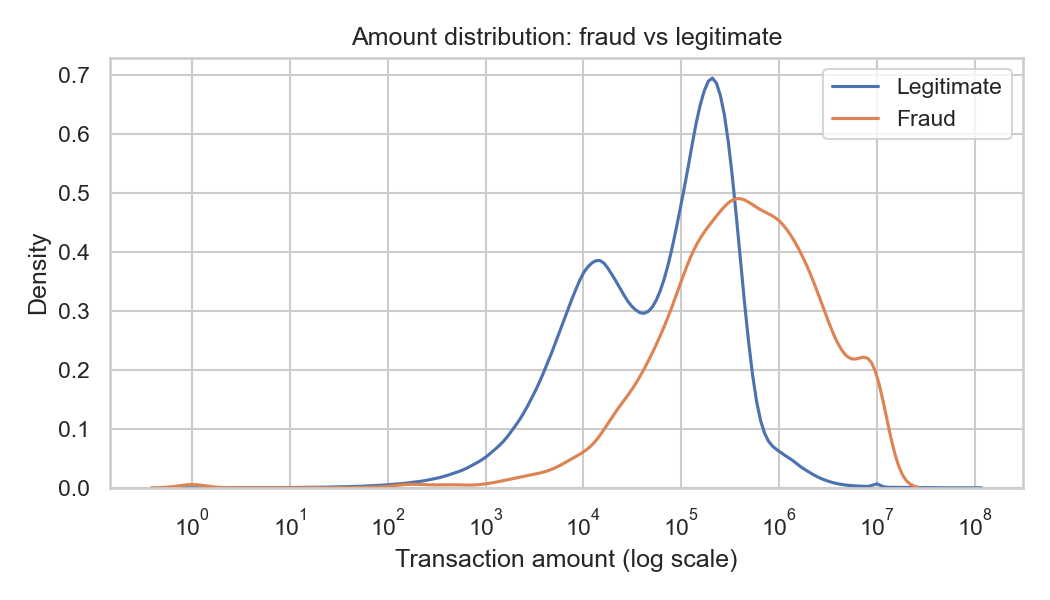
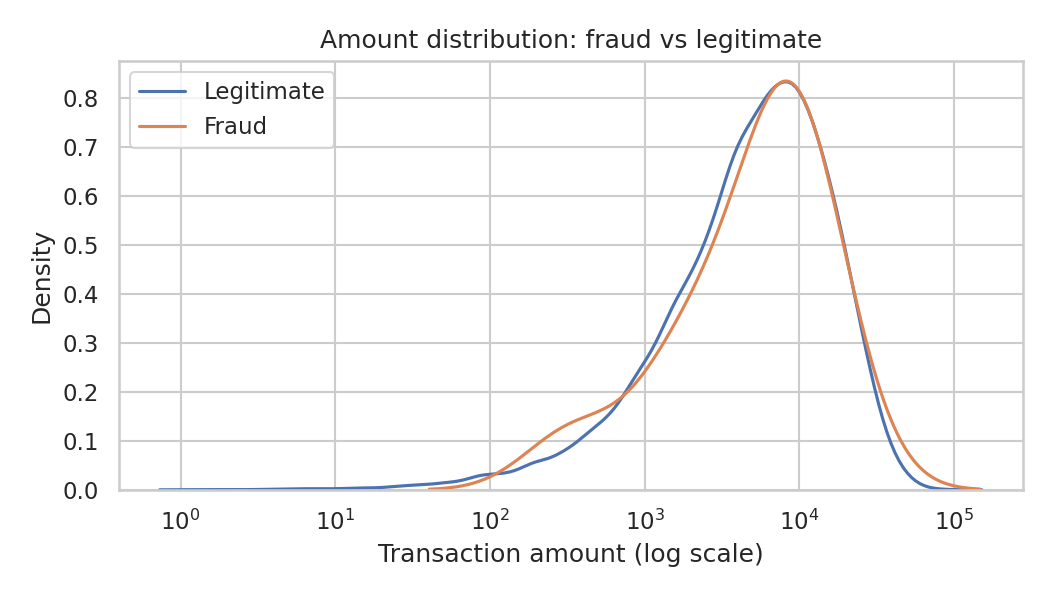
build preprocessing and feature engineering pipeline

Changed region(s): [[0.0305, 0.03, 0.9752, 0.96]]

diff --git a/src/data/preprocessing.py b/src/data/preprocessing.py
@@ -1,0 +1,138 @@
+"""
+Preprocessing and feature engineering for the PaySim dataset.
+
+Turns raw PaySim transactions into a modeling-ready feature matrix:
+  - encodes the categorical `type` column
+  - engineers balance-discrepancy features (the strongest fraud signal
+    identified during EDA — see notebooks/01_eda.ipynb)
+  - produces a stratified train/test split that preserves the (very rare)
+    fraud rate in both partitions
+"""
+
+import pathlib
+
+import numpy as np
+import pandas as pd
+from sklearn.model_selection import train_test_split
+
+TRANSACTION_TYPES = ["CASH-IN", "CASH-OUT", "DEBIT", "PAYMENT", "TRANSFER"]
+
+# Columns that are pure identifiers / leak information and should not be
+# fed into a model as features.
+NON_FEATURE_COLUMNS = ["nameOrig", "nameDest", "isFlaggedFraud"]
+
+TARGET_COLUMN = "isFraud"
+
+DEFAULT_PROCESSED_DIR = (
+    pathlib.Path(__file__).resolve().parents[2] / "data" / "processed"
+)
+
+
+def add_balance_discrepancy_features(df: pd.DataFrame) -> pd.DataFrame:
+    """
+    Engineer features that flag inconsistencies between a transaction's
+    stated amount and the resulting account balances.
+
+    PaySim fraud very often (a) fully drains the origin account and/or
+    (b) leaves a nonzero discrepancy between the expected and reported
+    new balance — both are strong, cheap-to-compute fraud signals.
+    """
+    df = df.copy()
+
+    df["orig_balance_discrepancy"] = (
+        df["newbalanceOrig"] - (df["oldbalanceOrg"] - df["amount"])
+    )
+    df["dest_balance_discrepancy"] = (
+        df["newbalanceDest"] - (df["oldbalanceDest"] + df["amount"])
+    )
+
+    df["orig_balance_drained"] = (
+        (df["oldbalanceOrg"] > 0) & (df["newbalanceOrig"] == 0)
+    ).astype(int)
+
+    # Guard against division by zero for accounts that started at 0 balance.
+    df["amount_to_orig_balance_ratio"] = df["amount"] / df["oldbalanceOrg"].replace(0, np.nan)
+    df["amount_to_orig_balance_ratio"] = df["amount_to_orig_balance_ratio"].fillna(0)
+
+    return df
+
+
+def encode_transaction_type(df: pd.DataFrame) -> pd.DataFrame:
+    """One-hot encode the `type` column into fixed, known categories."""
+    df = df.copy()
+    df["type"] = pd.Categorical(df["type"], categories=TRANSACTION_TYPES)
+    dummies = pd.get_dummies(df["type"], prefix="type", dtype=int)
+    df = pd.concat([df.drop(columns=["type"]), dummies], axis=1)
+    return df
+
+
+def engineer_features(df: pd.DataFrame) -> pd.DataFrame:
+    """Full feature engineering pipeline: balance features + type encoding."""
+    df = add_balance_discrepancy_features(df)
+    df = encode_transaction_type(df)
+    return df
+
+
+def stratified_split(
+    df: pd.DataFrame,
+    target_col: str = TARGET_COLUMN,
+    test_size: float = 0.2,
+    random_state: int = 42,
+) -> tuple[pd.DataFrame, pd.DataFrame]:
+    """
+    Split into train/test, preserving the fraud rate in both partitions.
+    Critical given how rare fraud is — a plain random split risks a test
+    set with too few (or zero) positive examples.
+    """
+    train_df, test_df = train_test_split(
+        df,
+        test_size=test_size,
+        random_state=random_state,
+        stratify=df[target_col],
+    )
+    return train_df.reset_index(drop=True), test_df.reset_index(drop=True)
+
+
+def build_feature_matrix(
+    df: pd.DataFrame, target_col: str = TARGET_COLUMN
+) -> tuple[pd.DataFrame, pd.Series]:
+    """Split a processed DataFrame into (X, y), dropping non-feature columns."""
+    drop_cols = [c for c in NON_FEATURE_COLUMNS if c in df.columns] + [target_col]
+    X = df.drop(columns=drop_cols)
+    y = df[target_col]
+    return X, y
+
+
+def run_preprocessing_pipeline(
+    raw_df: pd.DataFrame,
+    test_size: float = 0.2,
+    random_state: int = 42,
+    save: bool = True,
+    output_dir: pathlib.Path | None = None,
+) -> tuple[pd.DataFrame, pd.DataFrame]:
+    """
+    End-to-end: raw PaySim DataFrame -> engineered, split, (optionally saved)
+    train/test DataFrames. Returns (train_df, test_df) with all engineered
+    feature columns and the original target column intact.
+    """
+    engineered = engineer_features(raw_df)
+    train_df, test_df = stratified_split(
+        engineered, test_size=test_size, random_state=random_state
+    )
+
+    if save:
+        output_dir = pathlib.Path(output_dir or DEFAULT_PROCESSED_DIR)
+        output_dir.mkdir(parents=True, exist_ok=True)
+        train_df.to_csv(output_dir / "train.csv", index=False)
+        test_df.to_csv(output_dir / "test.csv", index=False)
+
+    return train_df, test_df
+
+
+if __name__ == "__main__":
+    from src.data.load_data import load_paysim
+
+    raw = load_paysim()
+    train_df, test_df = run_preprocessing_pipeline(raw)
+    print(f"Train: {len(train_df):,} rows, fraud rate {train_df[TARGET_COLUMN].mean():.4%}")
+    print(f"Test:  {len(test_df):,} rows, fraud rate {test_df[TARGET_COLUMN].mean():.4%}")

diff --git a/tests/test_preprocessing.py b/tests/test_preprocessing.py
@@ -1,0 +1,81 @@
+import pandas as pd
+import pytest
+
+from src.data.generate_sample import generate_sample
+from src.data.preprocessing import (
+    TARGET_COLUMN,
+    TRANSACTION_TYPES,
+    add_balance_discrepancy_features,
+    build_feature_matrix,
+    encode_transaction_type,
+    engineer_features,
+    run_preprocessing_pipeline,
+    stratified_split,
+)
+
+
+@pytest.fixture
+def raw_df():
+    # Large enough that stratified splitting has more than one fraud example
+    # to work with, given how rare fraud is even in the synthetic sample.
+    return generate_sample(n_rows=20_000, n_steps=20)
+
+
+def test_add_balance_discrepancy_features_adds_expected_columns(raw_df):
+    df = add_balance_discrepancy_features(raw_df)
+    for col in [
+        "orig_balance_discrepancy",
+        "dest_balance_discrepancy",
+        "orig_balance_drained",
+        "amount_to_orig_balance_ratio",
+    ]:
+        assert col in df.columns
+    # no NaNs introduced even for zero-balance origin accounts
+    assert df["amount_to_orig_balance_ratio"].isna().sum() == 0
+
+
+def test_encode_transaction_type_produces_one_hot_columns(raw_df):
+    df = encode_transaction_type(raw_df)
+    assert "type" not in df.columns
+    for t in TRANSACTION_TYPES:
+        assert f"type_{t}" in df.columns
+    # each row should belong to exactly one type
+    type_cols = [f"type_{t}" for t in TRANSACTION_TYPES]
+    assert (df[type_cols].sum(axis=1) == 1).all()
+
+
+def test_engineer_features_combines_both_steps(raw_df):
+    df = engineer_features(raw_df)
+    assert "type" not in df.columns
+    assert "orig_balance_discrepancy" in df.columns
+
+
+def test_stratified_split_preserves_target_column(raw_df):
+    engineered = engineer_features(raw_df)
+    train_df, test_df = stratified_split(engineered, test_size=0.25, random_state=1)
+    assert len(train_df) + len(test_df) == len(engineered)
+    assert TARGET_COLUMN in train_df.columns
+    assert TARGET_COLUMN in test_df.columns
+    # both partitions should contain at least one fraud example
+    assert train_df[TARGET_COLUMN].sum() > 0
+    assert test_df[TARGET_COLUMN].sum() > 0
+
+
+def test_build_feature_matrix_drops_identifier_and_target_columns(raw_df):
+    engineered = engineer_features(raw_df)
+    X, y = build_feature_matrix(engineered)
+    assert "nameOrig" not in X.columns
+    assert "nameDest" not in X.columns
+    assert TARGET_COLUMN not in X.columns
+    assert len(X) == len(y)
+    # all remaining columns should be numeric (safe to feed into a model)
+    assert all(pd.api.types.is_numeric_dtype(dt) for dt in X.dtypes)
+
+
+def test_run_preprocessing_pipeline_end_to_end(raw_df, tmp_path):
+    train_df, test_df = run_preprocessing_pipeline(
+        raw_df, test_size=0.2, random_state=0, save=True, output_dir=tmp_path
+    )
+    assert (tmp_path / "train.csv").exists()
+    assert (tmp_path / "test.csv").exists()
+    assert len(train_df) + len(test_df) == len(raw_df)

diff --git a/src/data/generate_sample.py b/src/data/generate_sample.py
@@ -34,7 +34,8 @@ def generate_sample(n_rows: int = 20_000, n_steps: int = 30) -> pd.DataFrame:
     amounts = np.round(RNG.exponential(scale=8000, size=n_rows) + 1, 2)
 
     old_bal_orig = np.round(RNG.uniform(0, 50_000, size=n_rows), 2)
-    # Balance decreases by the transaction amount
+    # Balance decreases by the transaction amount (with occasional noisy/zeroed-out
+    # records, mirroring real-world data quality issues seen in PaySim).
     new_bal_orig = np.clip(old_bal_orig - amounts, 0, None)
 
     old_bal_dest = np.round(RNG.uniform(0, 50_000, size=n_rows), 2)

diff --git a/README.md b/README.md
@@ -82,17 +82,17 @@ jupyter notebook notebooks/01_eda.ipynb
 See `reports/figures/` for the exported plots (class imbalance, transaction
 type distribution, amount distribution, and origin-balance discrepancy).
 
-## Roadmap
+### Preprocessing / feature engineering
 
-- [x] Data ingestion & exploratory analysis
-- [ ] Preprocessing / feature engineering pipeline
-- [ ] Baseline classifiers (Random Forest / SVM)
-- [ ] Bayesian risk-profiling model
-- [ ] Expected financial yield derivation
-- [ ] ILP auditor allocation formulation
-- [ ] End-to-end integration (Bayesian → ILP)
-- [ ] Benchmarking against naive threshold policies
-- [ ] Results write-up and visualizations
+```bash
+python -m src.data.preprocessing
+```
+
+Runs `src/data/preprocessing.py` end to end: loads the PaySim data (real or
+synthetic sample), engineers the balance-discrepancy features identified
+during EDA, one-hot encodes transaction type, and writes a stratified
+train/test split to `data/processed/train.csv` and `data/processed/test.csv`
+(fraud rate is preserved in both partitions despite how rare it is).
 
 ## References
 
